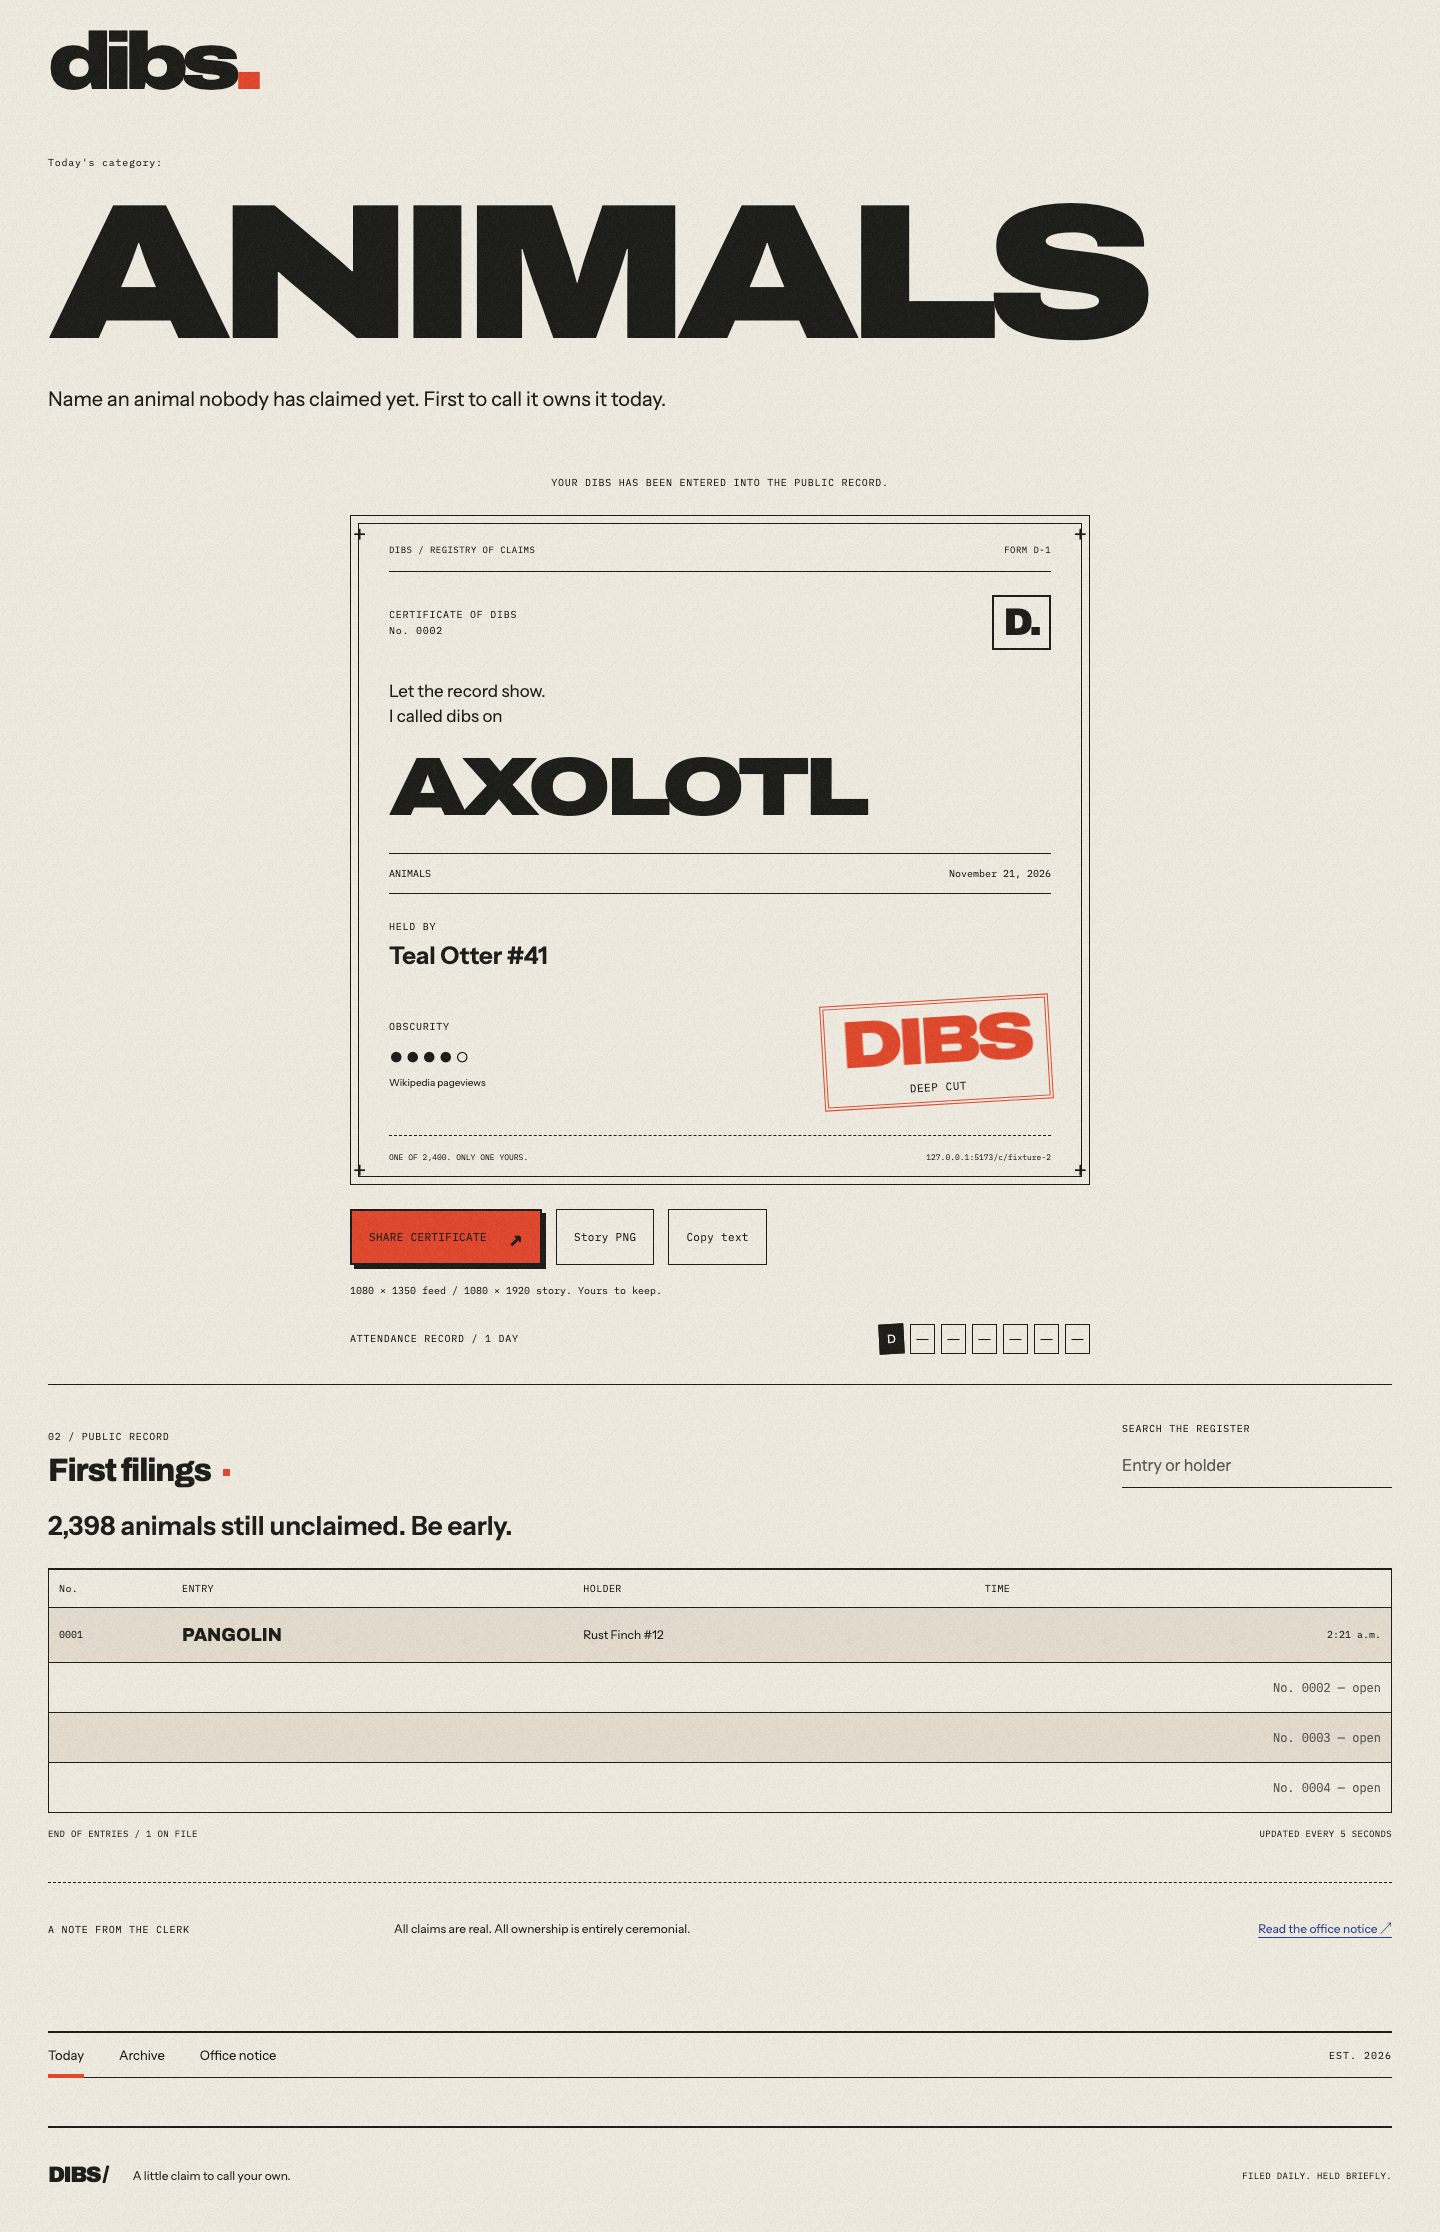
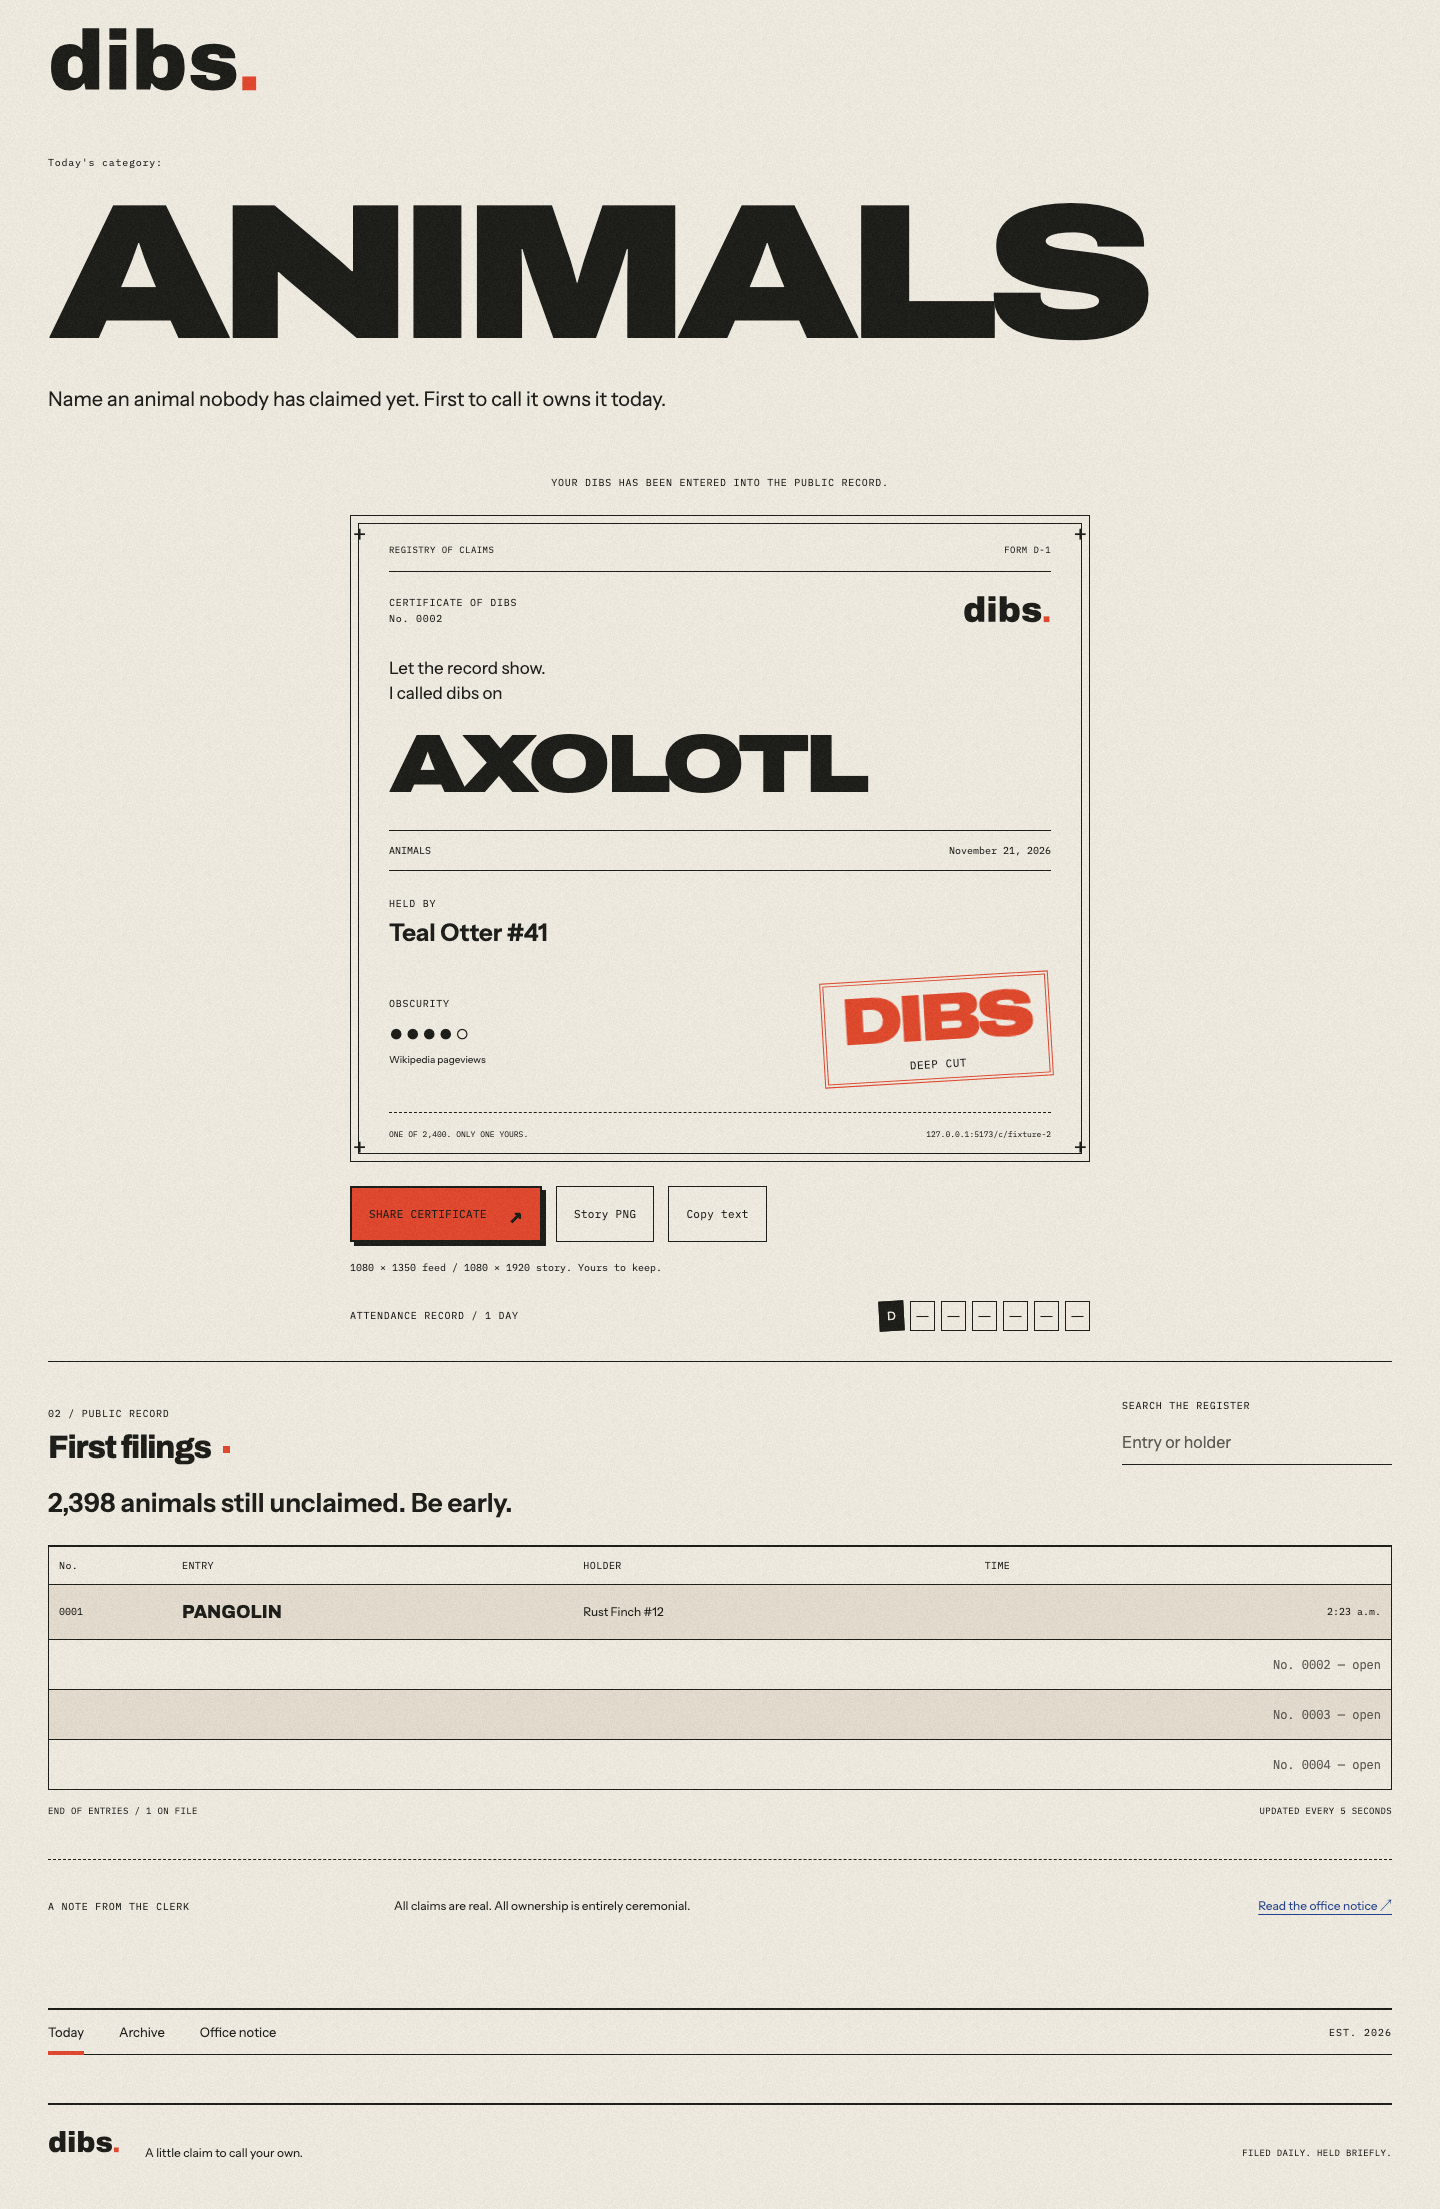
R2: use one outlined dibs wordmark across every surface

diff --git a/shared/brand.ts b/shared/brand.ts
@@ -1,0 +1,4 @@
+// Generated by scripts/build-wordmark.ts from the self-hosted Archivo Black face.
+export const WORDMARK_WIDTH = 276;
+export const WORDMARK_PATH = "M28.49 85.32Q20.79 85.32 15.29 81.97Q9.79 78.61 6.88 71.84Q3.96 65.08 3.96 54.85Q3.96 44.73 6.88 38.02Q9.79 31.31 15.29 27.95Q20.79 24.60 28.49 24.60Q31.57 24.60 34.48 25.31Q37.40 26.03 39.88 27.52Q42.35 29 44 31.31L44.77 31.31L44.77 4.25L66.66 4.25L66.66 84L48.84 84L47.30 75.75L46.53 75.75Q43.45 80.70 38.83 83.01Q34.21 85.32 28.49 85.32M35.31 69.15Q38.72 69.15 40.87 67.50Q43.01 65.85 44 63.05Q44.99 60.24 44.99 56.83L44.99 53.20Q44.99 50.67 44.44 48.41Q43.89 46.16 42.73 44.45Q41.58 42.75 39.71 41.76Q37.84 40.77 35.31 40.77Q31.90 40.77 29.81 42.20Q27.72 43.63 26.79 46.16Q25.85 48.69 25.85 52.10L25.85 57.93Q25.85 61.34 26.79 63.87Q27.72 66.40 29.81 67.78Q31.90 69.15 35.31 69.15M101.86 19.10L79.97 19.10L79.97 4.25L101.86 4.25L101.86 19.10M101.86 84L79.97 84L79.97 25.92L101.86 25.92M153.34 85.32Q147.73 85.32 142.94 83.01Q138.16 80.70 135.30 75.75L134.53 75.75L132.99 84L115.17 84L115.17 4.25L137.06 4.25L137.06 31.31L137.83 31.31Q139.59 29.11 142.01 27.63Q144.43 26.14 147.34 25.37Q150.26 24.60 153.34 24.60Q161.04 24.60 166.54 27.95Q172.04 31.31 174.96 38.02Q177.87 44.73 177.87 54.85Q177.87 65.08 174.96 71.84Q172.04 78.61 166.54 81.97Q161.04 85.32 153.34 85.32M146.52 69.15Q149.93 69.15 152.02 67.78Q154.11 66.40 155.05 63.87Q155.98 61.34 155.98 57.93L155.98 52.10Q155.98 48.69 155.05 46.16Q154.11 43.63 152.02 42.20Q149.93 40.77 146.52 40.77Q143.99 40.77 142.12 41.76Q140.25 42.75 139.09 44.45Q137.94 46.16 137.39 48.41Q136.84 50.67 136.84 53.20L136.84 56.83Q136.84 60.24 137.83 63.05Q138.82 65.85 140.97 67.50Q143.11 69.15 146.52 69.15M215.27 85.32Q209.99 85.32 204.77 84.28Q199.54 83.23 195.20 80.97Q190.85 78.72 188.21 75.20Q185.57 71.68 185.57 66.62L185.57 65.85Q185.57 65.52 185.68 65.08L206.03 65.08Q205.92 65.41 205.92 65.74L205.92 66.29Q206.03 68.27 207.30 69.59Q208.56 70.91 210.65 71.57Q212.74 72.23 215.27 72.23Q216.81 72.23 218.96 72.01Q221.10 71.79 222.75 70.91Q224.40 70.03 224.40 67.94Q224.40 66.07 222.48 65.14Q220.55 64.20 217.42 63.59Q214.28 62.99 210.54 62.33Q206.47 61.67 202.35 60.63Q198.22 59.58 194.70 57.66Q191.18 55.73 189.04 52.54Q186.89 49.35 186.89 44.29Q186.89 38.57 189.26 34.72Q191.62 30.87 195.75 28.62Q199.87 26.36 205.10 25.42Q210.32 24.49 216.04 24.49Q220.99 24.49 225.89 25.42Q230.78 26.36 234.85 28.40Q238.92 30.43 241.34 33.73Q243.76 37.03 243.76 41.76L243.76 42.53Q243.76 43.08 243.65 43.30L223.52 43.30L223.52 42.42Q223.52 40.77 222.37 39.73Q221.21 38.68 219.40 38.19Q217.58 37.69 215.71 37.69Q215.05 37.69 213.73 37.74Q212.41 37.80 211.04 38.13Q209.66 38.46 208.73 39.23Q207.79 40 207.79 41.43Q207.79 42.75 209.06 43.58Q210.32 44.40 212.47 44.90Q214.61 45.39 217.25 45.94Q221.43 46.71 226.27 47.42Q231.11 48.14 235.46 49.84Q239.80 51.55 242.55 55.02Q245.30 58.48 245.30 64.75Q245.30 70.69 242.88 74.70Q240.46 78.72 236.28 81.03Q232.10 83.34 226.66 84.33Q221.21 85.32 215.27 85.32";
+export const WORDMARK_BLOCK_X = 253;

diff --git a/worker/og.ts b/worker/og.ts
@@ -1,5 +1,6 @@
 import { Resvg, initWasm } from '@resvg/resvg-wasm';
 import { parse, type Font } from 'opentype.js';
+import { WORDMARK_WIDTH, WORDMARK_PATH, WORDMARK_BLOCK_X } from '../shared/brand';
 import { fitText } from '../shared/typography';
 import resvgWasm from '@resvg/resvg-wasm/index_bg.wasm';
 import archivoFont from '../public/fonts/archivo-og.woff';
@@ -43,7 +44,7 @@ export async function og(site: string, claim: any) {
   const number = claim
     ? 'CERTIFICATE OF DIBS No. ' + String(claim.claim_no).padStart(4, '0')
     : 'REGISTRY OF CLAIMS / FORM C-1';
-  const svg = `<svg xmlns="http://www.w3.org/2000/svg" width="1200" height="630"><path fill="#F1ECE2" d="M0 0h1200v630H0z"/><g fill="none" stroke="#1A1A17" stroke-width="2"><path d="M20 20h1160v590H20z M30 30h1140v570H30z M60 130h1080 M60 470h1080"/></g>${text(number, 60, 100, 22)}${text(claim ? claim.category_date : 'FIRST COME. FIRST SERVED.', claim ? 930 : 800, 100, 18)}${text(claim ? 'I called dibs on' : 'One category. One claim.', 60, 210, 30)}${lines.map((line, i) => text(line, 60, 240 + size + i * size * 0.95, size)).join('')}${text(claim ? claim.handle : 'Yours for the day.', 60, 530, 30)}${claim ? text(claim.category_name.toUpperCase(), 60, 565, 18) : ''}<g transform="translate(935 538) rotate(-3)"><path fill="none" stroke="#E1462B" stroke-width="4" d="M-150-42h300v80h-300z"/>${text(claim ? 'REGISTERED' : 'DIBS', -132, 14, claim ? 37 : 52, '#E1462B')}</g></svg>`;
+  const svg = `<svg xmlns="http://www.w3.org/2000/svg" width="1200" height="630"><path fill="#F1ECE2" d="M0 0h1200v630H0z"/><g fill="none" stroke="#1A1A17" stroke-width="2"><path d="M20 20h1160v590H20z M30 30h1140v570H30z M60 130h1080 M60 470h1080"/></g>${text(number, 60, 85, 22)}<g transform="translate(960 45) scale(${170/WORDMARK_WIDTH})"><path fill="#1A1A17" d="${WORDMARK_PATH}"/><path fill="#E1462B" d="M${WORDMARK_BLOCK_X} 67h18v18h-18z"/></g>${text(claim ? claim.category_date : 'FIRST COME. FIRST SERVED.', 60, 125, 14)}${text(claim ? 'I called dibs on' : 'One category. One claim.', 60, 210, 30)}${lines.map((line, i) => text(line, 60, 240 + size + i * size * 0.95, size)).join('')}${text(claim ? claim.handle : 'Yours for the day.', 60, 530, 30)}${claim ? text(claim.category_name.toUpperCase(), 60, 565, 18) : ''}<g transform="translate(935 538) rotate(-3)"><path fill="none" stroke="#E1462B" stroke-width="4" d="M-150-42h300v80h-300z"/>${text(claim ? 'REGISTERED' : 'DIBS', -132, 14, claim ? 37 : 52, '#E1462B')}</g></svg>`;
   const renderer = new Resvg(svg);
   try {
     const png = renderer.render();

diff --git a/src/App.tsx b/src/App.tsx
@@ -3,6 +3,8 @@ import { motion, useReducedMotion } from 'framer-motion';
 import { api, ApiError, isDemo } from './api';
 import { type Category, type Claim, type Me, type Today, serial } from './types';
 import { exportCertificate } from './share';
+import { WORDMARK_WIDTH, WORDMARK_PATH, WORDMARK_BLOCK_X } from '../shared/brand';
+function Wordmark() { return <svg className="brand-mark" role="img" aria-label="dibs." viewBox={`0 0 ${WORDMARK_WIDTH} 100`}><path fill="currentColor" d={WORDMARK_PATH}/><path fill="#E1462B" d={`M${WORDMARK_BLOCK_X} 67h18v18h-18z`}/></svg>; }
 
 const time = (s: string) =>
   new Date(s).toLocaleTimeString('en-CA', {
@@ -134,7 +136,7 @@ export default function App() {
       <div className={"page " + (path === "/" ? "home-page" : "")}>
         <header className="masthead">
           <Link to="/" className="wordmark" aria-label="Dibs home">
-            dibs<span className="wordmark-dot">.</span>
+            <Wordmark />
           </Link>
           <p className="mast-note">
             DEPARTMENT OF
@@ -217,7 +219,7 @@ export default function App() {
         </main>
         <footer>
           <Link to="/" className="footer-logo">
-            DIBS /
+            <Wordmark />
           </Link>
           <span>A little claim to call your own.</span>
           <span className="footer-right">FILED DAILY. HELD BRIEFLY.</span>
@@ -735,7 +737,7 @@ export function Certificate({ claim, animated = false }: { claim: Claim; animate
       aria-label={'Certificate of Dibs for ' + claim.display}
     >
       <div className="cert-rule">
-        <span>DIBS / REGISTRY OF CLAIMS</span>
+        <span>REGISTRY OF CLAIMS</span>
         <span>FORM D-1</span>
       </div>
       <div className="cert-top">
@@ -745,7 +747,7 @@ export function Certificate({ claim, animated = false }: { claim: Claim; animate
           No. {serial(claim.claim_no)}
         </span>
         <span className="cert-emblem" aria-hidden="true">
-          D.
+          <Wordmark />
         </span>
       </div>
       <p className="cert-intro">
@@ -929,7 +931,7 @@ function Archive() {
             <p>{error || 'Volume I is waiting for its first page.'}</p>
           )}
           <div className="archive-spine" aria-hidden="true">
-            DIBS / VOL. I / PUBLIC RECORD
+            <Wordmark /> VOL. I / PUBLIC RECORD
           </div>
         </aside>
         <div>

diff --git a/src/share.ts b/src/share.ts
@@ -1,4 +1,5 @@
 import { type Claim, serial } from './types';
+import { WORDMARK_WIDTH, WORDMARK_PATH, WORDMARK_BLOCK_X } from '../shared/brand';
 import { fitText } from '../shared/typography';
 // Canvas avoids Safari's SVG foreignObject restrictions. Font faces are self-hosted.
 export async function exportCertificate(claim: Claim, story: boolean, text: string, url: string) {
@@ -43,13 +44,18 @@ export async function exportCertificate(claim: Claim, story: boolean, text: stri
       c.lineTo(x, y + 13);
       c.stroke();
     }
-  mono('DIBS / REGISTRY OF CLAIMS', 80, 105);
+  mono('REGISTRY OF CLAIMS', 80, 105);
   mono('FORM D-1', 890, 105);
   line(135);
   mono('CERTIFICATE OF DIBS', 80, 200, 22);
   mono('No. ' + serial(claim.claim_no), 80, 237, 22);
-  c.font = '900 85px Archivo, ArchivoSupplement';
-  c.fillText('D.', 870, 237);
+  c.save();
+  c.translate(800, 162);
+  c.scale(200 / WORDMARK_WIDTH, 200 / WORDMARK_WIDTH);
+  c.fill(new Path2D(WORDMARK_PATH));
+  c.fillStyle = '#E1462B';
+  c.fillRect(WORDMARK_BLOCK_X, 67, 18, 18);
+  c.restore();
   const top = story ? 420 : 340;
   c.font = '400 34px Instrument';
   c.fillText('Let the record show.', 80, top);

diff --git a/scripts/build-wordmark.ts b/scripts/build-wordmark.ts
@@ -1,0 +1,11 @@
+import { readFileSync, writeFileSync } from 'node:fs';
+import opentype from 'opentype.js';
+const { parse } = opentype;
+const data = readFileSync('public/fonts/archivo-og.woff');
+const font = parse(data.buffer.slice(data.byteOffset, data.byteOffset + data.byteLength));
+let x = 0; let path = '';
+for (const ch of 'dibs') { const g = font.charToGlyph(ch); path += g.getPath(x,84,110).toPathData(2); x += (g.advanceWidth || 0) * 110 / font.unitsPerEm; }
+const width = Math.ceil(x);
+const svg = `<svg xmlns="http://www.w3.org/2000/svg" viewBox="0 0 ${width + 26} 100"><path fill="currentColor" d="${path}"/><path fill="#E1462B" d="M${width+3} 67h18v18h-18z"/></svg>`;
+writeFileSync('shared/brand.ts', `// Generated by scripts/build-wordmark.ts from the self-hosted Archivo Black face.\nexport const WORDMARK_WIDTH = ${width+26};\nexport const WORDMARK_PATH = ${JSON.stringify(path)};\nexport const WORDMARK_BLOCK_X = ${width+3};\n`);
+writeFileSync('public/favicon.svg', svg.replace('currentColor', '#1A1A17'));

diff --git a/src/style.css b/src/style.css
@@ -1834,3 +1834,9 @@ html.low-power .claim-imprint strong {
 .dibs-stamp strong { filter: url('#ink'); }
 .dibs-stamp span { font-size: 11px; letter-spacing: .05em; line-height: 1.5; }
 @media (max-width: 600px) { .dibs-stamp span { font-size: 10px; } }
+.brand-mark { display: block; width: 100%; height: auto; }
+.wordmark { width: 212px; }
+.footer-logo { display: block; width: 72px; color: var(--ink); }
+.cert-emblem { width: 88px; height: auto; border: 0; padding: 0; }
+@media(max-width:600px) { .wordmark { width: 178px; } .cert-emblem { width: 66px; } }
+html.low-power .dibs-stamp strong { filter: none; }
